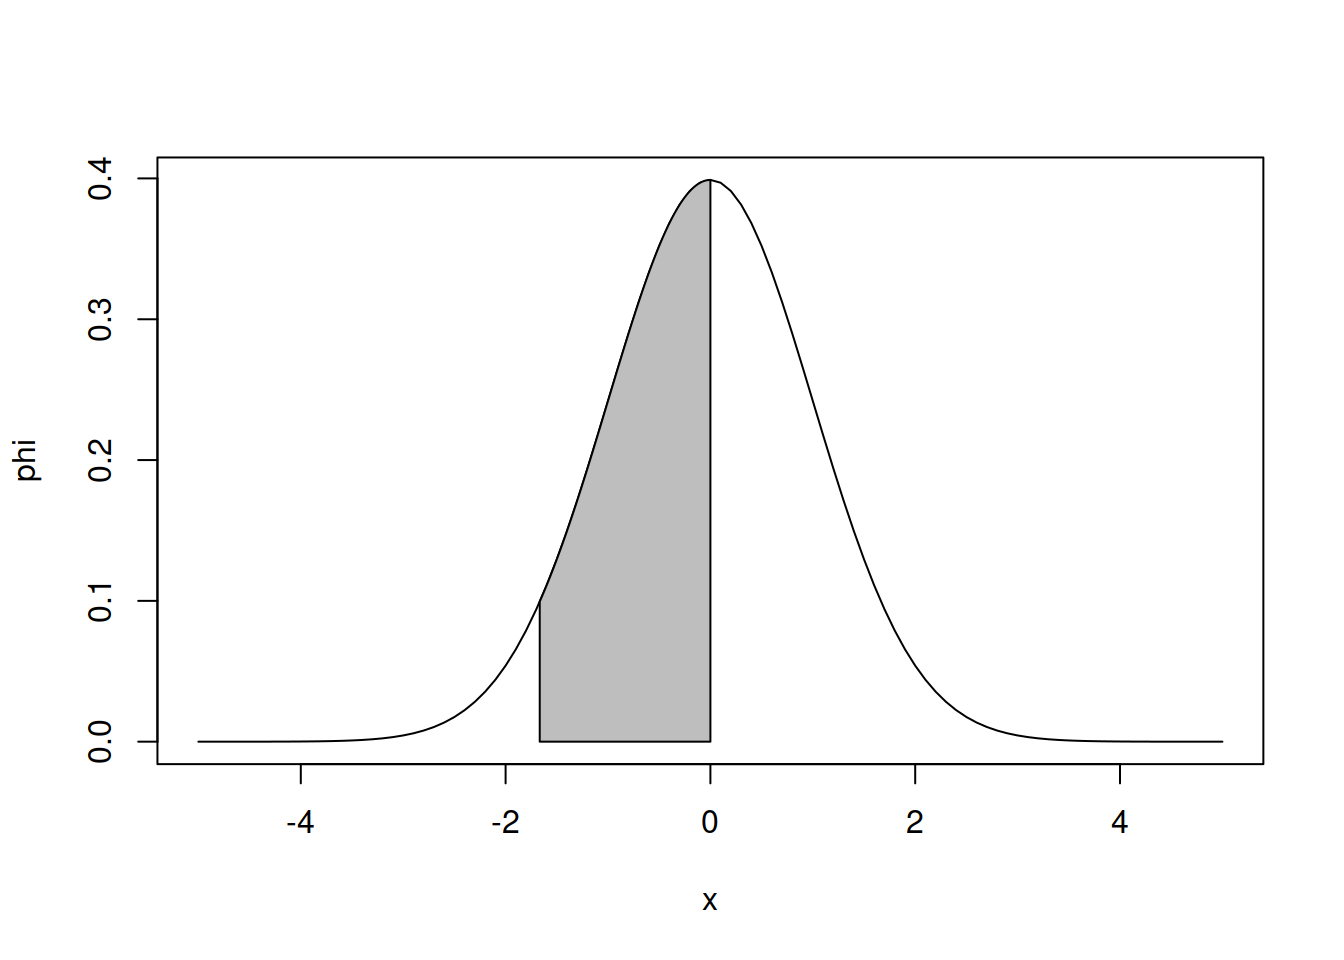
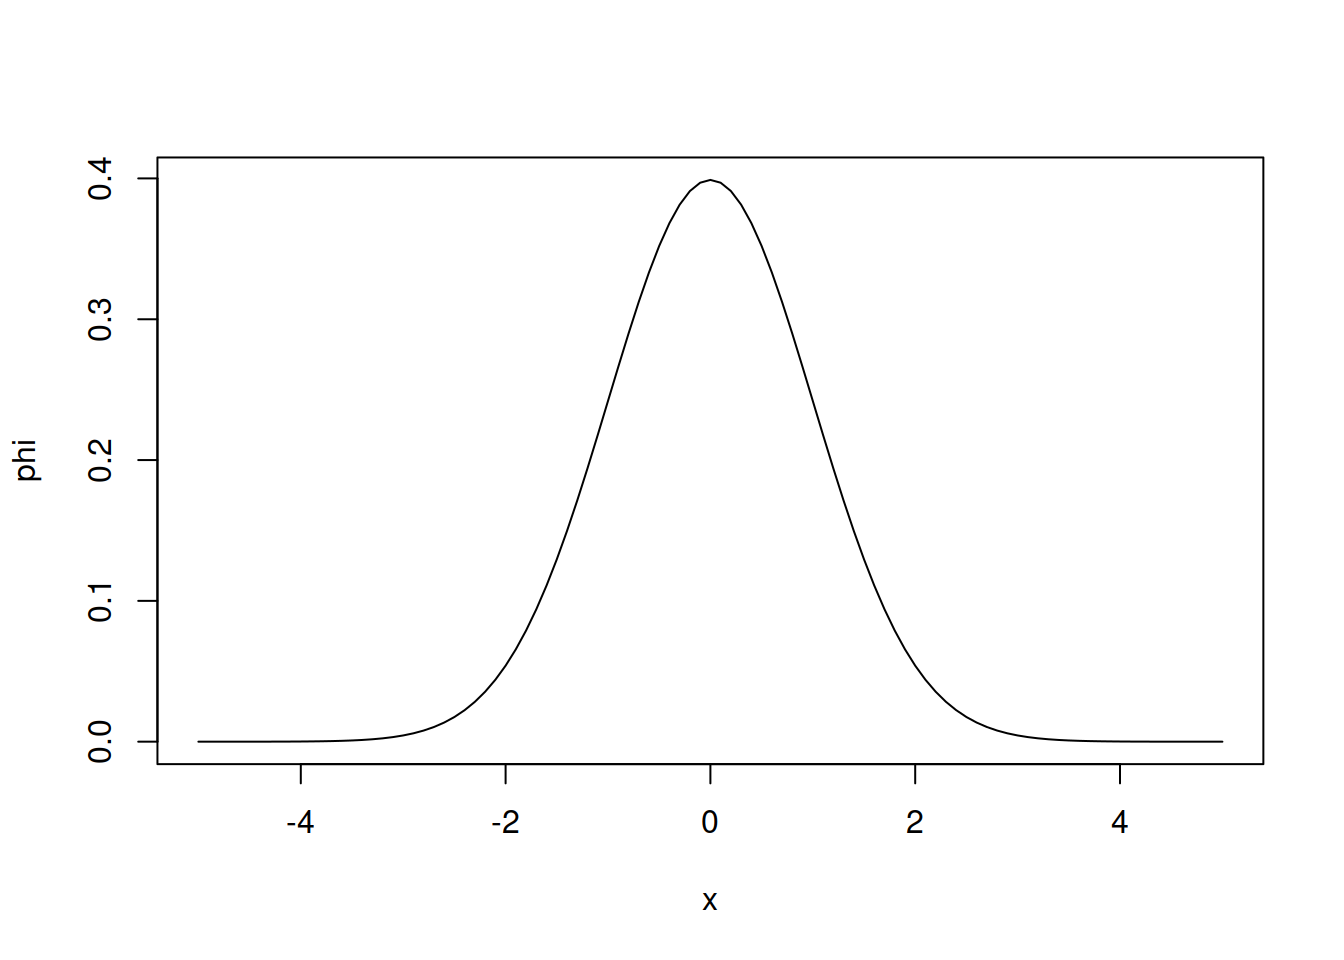
improving

Changed region(s): [[0.375, 0.1875, 0.5312, 0.7812]]

diff --git a/quiz5/quiz5.html b/quiz5/quiz5.html
@@ -158,7 +158,7 @@ D = 0.1167, p-value = 0.08619</code></pre>
 </div>
 </div>
 <p><strong>Interpretação dos resultados:</strong></p>
-<p>Considerando um nível de significância de 5%, não rejeita-se a hipótese de que os dados seguem a distrição normal, pois os p-valores são todos maiores do que 0,05.</p>
+<p>Considerando um nível de significância de 5%, não rejeita-se a hipótese de que os dados seguem a distrição normal, pois os p-valores são maiores do que 0,05 para todos os testes de normalidades.</p>
 <hr>
 </section>
 <section id="b-probabilidade-de-que-uma-chamada-demore-entre-125-e-150-segundos." class="level4">
@@ -176,15 +176,15 @@ D = 0.1167, p-value = 0.08619</code></pre>
 <div class="sourceCode cell-code" id="cb12"><pre class="sourceCode r code-with-copy"><code class="sourceCode r"><span id="cb12-1"><a href="#cb12-1" aria-hidden="true" tabindex="-1"></a>phi <span class="ot">&lt;-</span> <span class="cf">function</span>(x, <span class="at">mi =</span> <span class="dv">0</span>, <span class="at">sigma =</span> <span class="dv">1</span>) { </span>
 <span id="cb12-2"><a href="#cb12-2" aria-hidden="true" tabindex="-1"></a>  (<span class="dv">1</span><span class="sc">/</span>(sigma<span class="sc">*</span><span class="fu">sqrt</span>(<span class="dv">2</span><span class="sc">*</span>pi))) <span class="sc">*</span><span class="fu">exp</span>((<span class="sc">-</span><span class="dv">1</span><span class="sc">/</span><span class="dv">2</span>)<span class="sc">*</span>((x<span class="sc">-</span>mi)<span class="sc">/</span>sigma)<span class="sc">^</span><span class="dv">2</span>) </span>
 <span id="cb12-3"><a href="#cb12-3" aria-hidden="true" tabindex="-1"></a>}</span>
-<span id="cb12-4"><a href="#cb12-4" aria-hidden="true" tabindex="-1"></a></span>
-<span id="cb12-5"><a href="#cb12-5" aria-hidden="true" tabindex="-1"></a>x <span class="ot">=</span> <span class="fu">c</span>(z1, <span class="fu">seq</span>(z1, z2, <span class="at">l=</span><span class="dv">100</span>), z2)</span>
-<span id="cb12-6"><a href="#cb12-6" aria-hidden="true" tabindex="-1"></a>y <span class="ot">=</span> <span class="fu">c</span>(<span class="dv">0</span>, <span class="fu">phi</span>(<span class="fu">seq</span>(z1, z2, <span class="at">l=</span><span class="dv">100</span>)), <span class="dv">0</span>)</span>
-<span id="cb12-7"><a href="#cb12-7" aria-hidden="true" tabindex="-1"></a><span class="fu">plot</span>(phi, <span class="sc">-</span><span class="dv">5</span>, <span class="dv">5</span>)</span>
-<span id="cb12-8"><a href="#cb12-8" aria-hidden="true" tabindex="-1"></a><span class="fu">polygon</span>(<span class="at">x =</span> x, <span class="at">y =</span> y, <span class="at">col=</span><span class="st">"gray"</span>)</span></code><button title="Copiar para a área de transferência" class="code-copy-button"><i class="bi"></i></button></pre></div>
+<span id="cb12-4"><a href="#cb12-4" aria-hidden="true" tabindex="-1"></a>x <span class="ot">=</span> <span class="fu">c</span>(<span class="dv">100</span>, <span class="fu">seq</span>(<span class="dv">100</span>, <span class="dv">200</span>, <span class="at">l=</span><span class="dv">100</span>), <span class="dv">200</span>)</span>
+<span id="cb12-5"><a href="#cb12-5" aria-hidden="true" tabindex="-1"></a>y <span class="ot">=</span> <span class="fu">c</span>(<span class="dv">0</span>, <span class="fu">phi</span>(<span class="fu">seq</span>(<span class="dv">125</span>, <span class="dv">150</span>, <span class="at">l=</span><span class="dv">100</span>)), <span class="dv">0</span>)</span>
+<span id="cb12-6"><a href="#cb12-6" aria-hidden="true" tabindex="-1"></a><span class="fu">plot</span>(phi, <span class="sc">-</span><span class="dv">5</span>, <span class="dv">5</span>)</span>
+<span id="cb12-7"><a href="#cb12-7" aria-hidden="true" tabindex="-1"></a><span class="fu">polygon</span>(<span class="at">x =</span> x, <span class="at">y =</span> y, <span class="at">col=</span><span class="st">"gray"</span>)</span></code><button title="Copiar para a área de transferência" class="code-copy-button"><i class="bi"></i></button></pre></div>
 <div class="cell-output-display">
 <p><img src="quiz5_files/figure-html/unnamed-chunk-6-1.png" class="img-fluid" width="672"></p>
 </div>
 </div>
+<p><strong>A probabilidade de que uma chamada demore entre 125 e 150 segundos é de 45,09603%.</strong></p>
 </section>
 <section id="c-probabilidade-de-que-uma-chamada-demore-menos-de-125-segundos." class="level4">
 <h4 class="anchored" data-anchor-id="c-probabilidade-de-que-uma-chamada-demore-menos-de-125-segundos.">c) Probabilidade de que uma chamada demore menos de 125 segundos.</h4>
